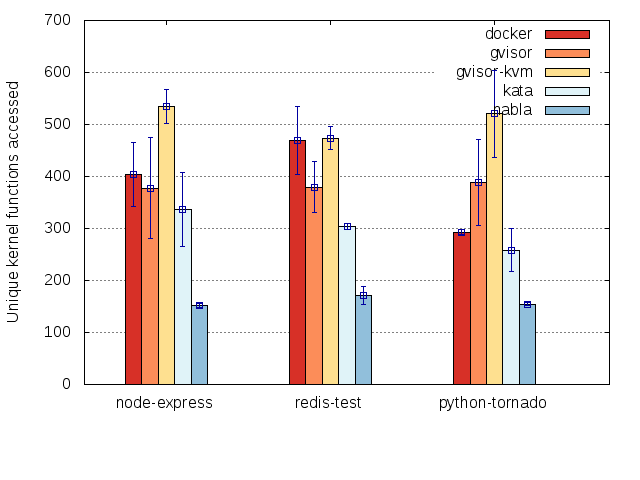
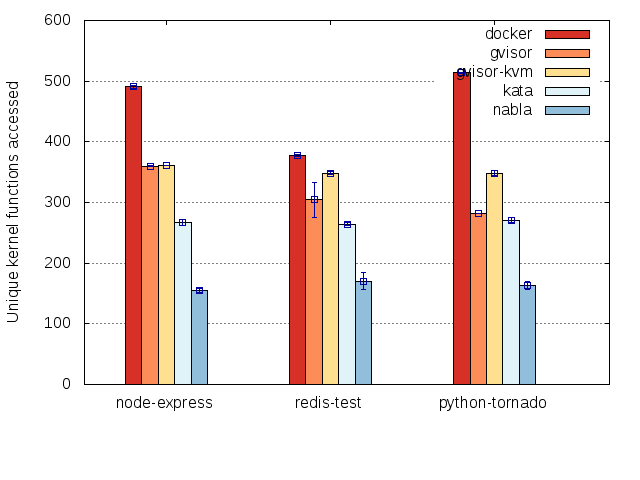
fix filters

diff --git a/filters/filter-interrupts.c b/filters/filter-interrupts.c
@@ -27,42 +27,16 @@ int check_for_interrupts(char *line) {
             || strstr(line, "smp_apic_timer_interrupt")
             || strstr(line, "smp_reschedule_interrupt")
             || strstr(line, "smp_call_function_single_interrupt")
-            || strstr(line, "exit_to_usermode_loop")
-            || strstr(line, "__softirqentry_text_start")
-            || strstr(line, "run_timer_softirq")
-            || strstr(line, "printk_nmi_enter")
-            || strstr(line, "printk_nmi_exit")
-            || strstr(line, "do_async_page_fault")
-            || strstr(line, "__entry_text_end")
             || strstr(line, "do_softirq")
-            || strstr(line, "do_general_protection")
-            || strstr(line, "__do_page_fault")
             );
 }
 
 int main(int argc, char **argv) {
     int filtering = 0;
     int filtering_indent = 0;
-    int started = 0;
     char *line;
 
     while ((line = fgets(buf, BUFLEN, stdin)) != NULL) {
-
-        if (!started) {
-            int i = -1;
-            while(line[++i] == ' ')
-                ;
-
-            /* we don't start until we see the first system call */
-            /* or we see kthread_should_stop (for kernel processes) */
-            if (!strncmp(line + i, "SyS", 3)
-                || !strncmp(line + i, "sys", 3)
-                || !strncmp(line + i, "do_syscall", 10)
-                || !strncmp(line + i, "kthread_should_stop", 19))
-                started = 1;
-            else
-                continue;
-        }
 
         /* checking for brackets (e.g., { ... } ) is a bit fragile
          * because ftrace can mislabel one.  However, ftrace's
@@ -70,6 +44,7 @@ int main(int argc, char **argv) {
         int indent = -1;
         while(line[++indent] == ' ')
             ;
+
         if (!filtering) {
             if (check_for_interrupts(line)) {
                 filtering = 1;

diff --git a/filters/filter-start.c b/filters/filter-start.c
@@ -19,43 +19,34 @@
 #include <stdio.h>
 #include <string.h>
 
-/* Sometimes ftrace assigns a function to the wrong process.  This
- * uses indentation as a heuristic to try to filter out those errors. 
- */
-
-
-#define MAX_SP 101 /* maximum ftrace indent */
 #define BUFLEN 4096
 char buf[BUFLEN];
 
 int main(int argc, char **argv) {
+    int started = 0;
     char *line;
-    int expected_sp = -1;
-    
+
     while ((line = fgets(buf, BUFLEN, stdin)) != NULL) {
 
-        int sp = -1;
-        while(line[++sp] == ' ')
-            ;
+        if (!started) {
+            int i = -1;
+            while(line[++i] == ' ')
+                ;
 
-        if (expected_sp == -1)
-            expected_sp = sp;
-
-        if (line[sp] == '}') {
-            if (sp == expected_sp - 2) {
-                printf("%s", line);
-                expected_sp -= 2;
-            }
-        } else {
-            if (sp == expected_sp) {
-                printf("%s", line);
-                while(line[++sp] != '\n')
-                    ;
-                if (line[sp - 1] == '{')
-                    if (expected_sp + 2 <= MAX_SP)
-                        expected_sp += 2;
-            }
+            /* we don't start until we see the first system call,
+             * vcpu_enter_guest (for VMs), or kthread_should_stop (for
+             * kernel processes) */
+            if (!strncmp(line + i, "SyS", 3)
+                || !strncmp(line + i, "sys", 3)
+                || !strncmp(line + i, "do_syscall", 10)
+                || !strncmp(line + i, "kthread_should_stop", 19)
+                || !strncmp(line + i, "vcpu_enter_guest", 16))
+                started = 1;
+            else
+                continue;
         }
+
+        printf("%s", line);
     }
     
     return 0;

diff --git a/README.md b/README.md
@@ -64,14 +64,14 @@ how we gather the relevant pids.  This is done by looking through
 specifying the `-runtime-root`, which is either `runtime-runc` (in the
 default case), `runtime-runnc` (in the nabla case), `runtime-kata` (in
 the kata containers case) or `runtime-runsc` (in the gvisor case).
+During the experiments, we pin all container runtime pids to core 0,
+to avoid confusing the function trace if a pid were to switch cores.
 
 We also process the raw traces primarily to eliminate interrupts,
-which may perform work on behalf of other processes.  There are two
+which may perform work on behalf of other processes.  There are three
 filtering programs, written in C, in the `filters/` directory to aid
-in removing interrupt-related functions from the raw trace.
-Occasionally, when encountering many context switches, ftrace seems to
-mistakenly assign a function call to the wrong pid. The program
-`filters/filter-errors.c` is used to identify and remove these lines.
+in removing interrupt-related functions from the raw trace.  See the
+README in that directory for more information.
 
 Once filtering and processing is complete, a list of the unique
 functions called should appear in `OUTPUT_DIR/trace.list`.  Counting
@@ -85,9 +85,7 @@ We have included some results for default docker, nabla, kata, and
 gvisor containers that were obtained using the `graphs_generate.bash`
 script.
 
-
 ![functions](https://github.com/nabla-containers/measurements/blob/master/graph-functions.png?raw=true)
-![syscalls](https://github.com/nabla-containers/measurements/blob/master/graph-syscalls.png?raw=true)
 
 
 [1]: https://github.com/nabla-containers/nabla-demo-apps/tree/master/node-express

diff --git a/filters/README.md b/filters/README.md
@@ -1,0 +1,37 @@
+This directory contains various filters for the ftrace traces that are
+gathered in the parent directory.  The main objective is to filter out
+interrupts that may do a lot of work that is not on behalf of the
+process being traced.  There are currently three filters, which serve
+the following purposes:
+
+* `filter-start`: We want to avoid the case that the trace starts with
+  functions that have come from the middle of interrupt routines that
+  we cannot otherwise identify as such.  To do this, `filter-start`
+  cuts off the beginning of the trace until it sees the first system
+  call, kvm guest entry or kthread operation.
+
+* `filter-errors`: Sometimes ftrace assigns a function to the wrong
+  process.  We have found indentation is a relatively good heuristic
+  to try to filter out those errors.  Note: these types of errors
+  happen far less when the processes are pinned to a single core.
+
+* `filter-interrupts`: We use the function-graph plugin for ftrace to
+  produce traces that allow us to see what child functions should be
+  removed if a parent is removed.  We currently filter the following
+  interrupt-related functions:
+
+      smp_irq_work_interrupt
+      smp_apic_timer_interrupt
+      smp_reschedule_interrupt
+      smp_call_function_single_interrupt
+      do_softirq
+
+To build the filters, type
+
+    make
+
+To run them on a trace with a single pid, use this sequence:
+
+    cat trace | filter-start | filter-errors | filter-interrupts
+
+See `runtest.bash` for a working example that uses the filters.
